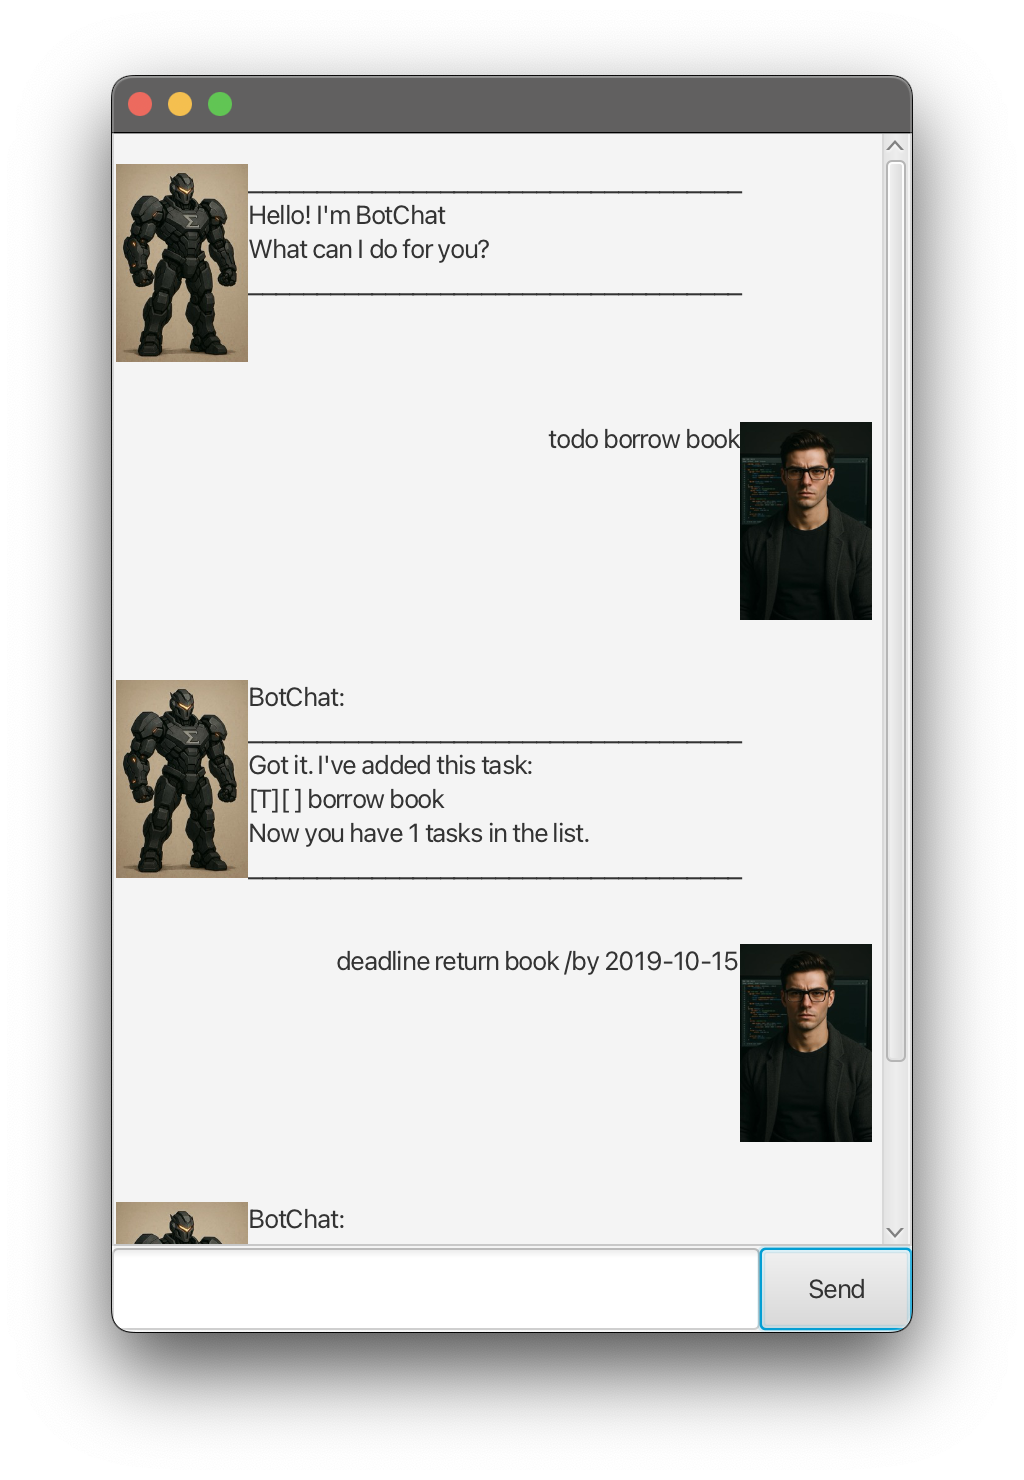
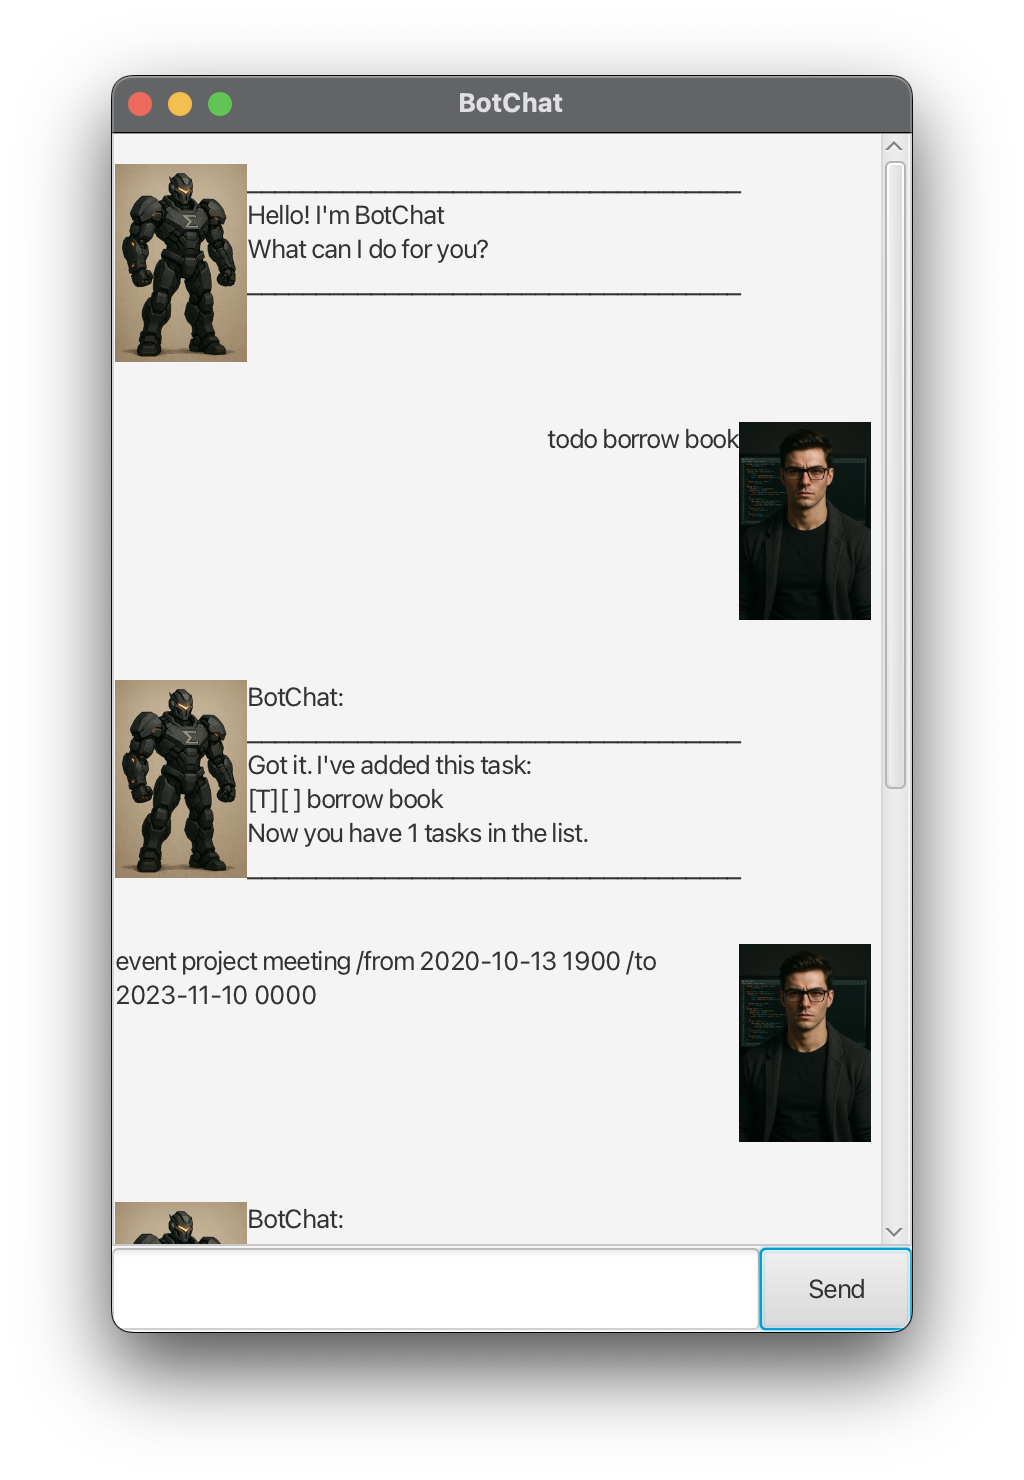
Add Ui title

diff --git a/src/main/java/botchat/parser/Parser.java b/src/main/java/botchat/parser/Parser.java
@@ -240,14 +240,7 @@ public class Parser {
         String removeDeadline = input.substring(9).trim();
         String[] remainingCommand = removeDeadline.split("/by");
 
-        if (remainingCommand.length < 2) {
-            throw new BotChatException("OH NO! deadline is missing a deadline");
-        }
-        if (remainingCommand[1].trim().isEmpty()) {
-            throw new BotChatException("OH NO! deadline is missing a deadline");
-        }
-
-        //Checks if date is in correct format;
+        checkLength(remainingCommand, 2 , "OH NO! deadline is missing a deadline");
         DateTime.validateDateString(remainingCommand[1]);
 
         Task t = new Deadline(remainingCommand[0].trim(), remainingCommand[1].trim());
@@ -278,25 +271,14 @@ public class Parser {
 
         String removeEvent = input.substring(6).trim();
         String[] remaining = removeEvent.split("/from");
-
-        if (remaining.length < 2) {
-            throw new BotChatException("OH NO! event must include a /from and /to");
-        }
+        checkLength(remaining , 2 , "OH NO! event must include a /from and /to");
 
         String description = remaining[0].trim();
         String[] remainingDate = remaining[1].split("/to");
-
-        if (remainingDate.length < 2) {
-            throw new BotChatException("OH NO! event must include a /from and /to");
-        }
+        checkLength(remainingDate , 2 , "OH NO! event must include a /from and /to");
 
         String from = remainingDate[0].trim();
         String to = remainingDate[1].trim();
-
-        if (to.isEmpty() || from.isEmpty()) {
-            throw new BotChatException("OH NO! event is missing a from or to date/time");
-        }
-
         DateTime.validateDateTimeString(to);
         DateTime.validateDateTimeString(from);
 
@@ -306,6 +288,12 @@ public class Parser {
         store.saveTasks(tasks.getTasks());
         return true;
 
+    }
+
+    private static void checkLength(String[] input, int length, String message) throws BotChatException {
+        if (input.length < length) {
+            throw new BotChatException(message);
+        }
     }
 
     /**

diff --git a/src/main/java/botchat/app/Main.java b/src/main/java/botchat/app/Main.java
@@ -17,6 +17,7 @@ public class Main extends Application {
     @Override
     public void start(Stage stage) {
         try {
+            stage.setTitle("BotChat");
             FXMLLoader fxmlLoader = new FXMLLoader(Main.class.getResource("/view/MainWindow.fxml"));
             AnchorPane ap = fxmlLoader.load();
             Scene scene = new Scene(ap);
